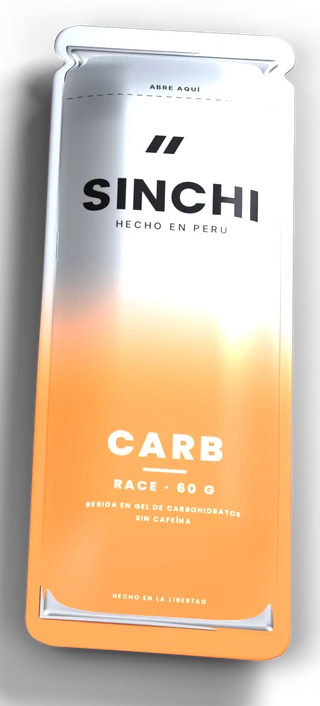
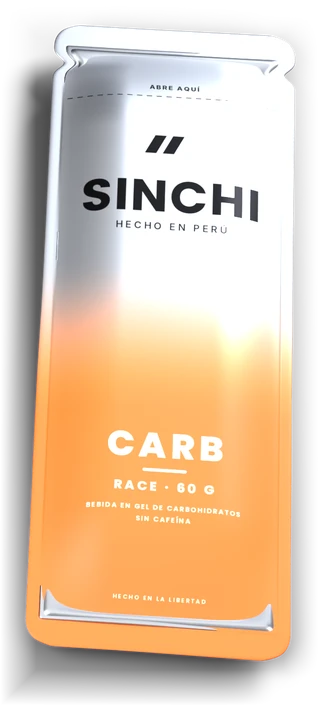
Renders Blender con bordes de sombra suavizados
Claude-Session: https://claude.ai/code/session_016W1ixGYnw2FrW8Et2c2FKq

Changed region(s): [[0.0, 0.0935, 0.8125, 1.0], [0.9062, 0.3428, 1.0, 0.9348]]

diff --git a/index.html b/index.html
@@ -23,16 +23,16 @@
 <meta property="og:url" content="https://sinchienergy.com/">
 <meta property="og:title" content="SINCHI CARB · Bebida en gel de carbohidratos hecha en Perú">
 <meta property="og:description" content="Bebida en gel de carbohidratos, sin cafeína, para correr, pedalear y entrenar. RACE, sachet de 60 g. Separa el tuyo.">
-<meta property="og:image" content="https://sinchienergy.com/assets/og.jpg?v=4">
+<meta property="og:image" content="https://sinchienergy.com/assets/og.jpg?v=5">
 <meta property="og:image:width" content="1200">
 <meta property="og:image:height" content="630">
 <meta property="og:image:alt" content="SINCHI CARB RACE, sachet de 60 g">
 <meta name="twitter:card" content="summary_large_image">
 <meta name="twitter:title" content="SINCHI CARB · Bebida en gel de carbohidratos hecha en Perú">
 <meta name="twitter:description" content="Bebida en gel de carbohidratos, sin cafeína. RACE, sachet de 60 g. Separa el tuyo.">
-<meta name="twitter:image" content="https://sinchienergy.com/assets/og.jpg?v=4">
+<meta name="twitter:image" content="https://sinchienergy.com/assets/og.jpg?v=5">
 <script type="application/ld+json">{"@context":"https://schema.org","@type":"Organization","name":"SINCHI CARB","alternateName":"SINCHI","url":"https://sinchienergy.com/","logo":"https://sinchienergy.com/icons/icon-512.png","slogan":"Más fuerte que tus problemas.","sameAs":["https://www.instagram.com/sinchienergy/","https://www.tiktok.com/@sinchienergy"]}</script>
-<link rel="preload" as="image" href="assets/race-600.webp?v=2" fetchpriority="high">
+<link rel="preload" as="image" href="assets/race-600.webp?v=3" fetchpriority="high">
 <link rel="stylesheet" href="styles.css?v=20">
 <!-- Google Analytics -->
 <script>addEventListener('load',function(){setTimeout(function(){var s=document.createElement('script');s.async=true;s.src='https://www.googletagmanager.com/gtag/js?id=G-M9N4279ZE2';document.head.appendChild(s);},1500);});</script>
@@ -72,7 +72,7 @@
   <div class="hero-visual hero-in hero-in2">
     <div class="glow"></div>
     <div class="tilt" id="tilt">
-      <div class="stage"><div class="pedestal"></div><div class="duo"><img class="floaty heroimg heroimg-race" src="assets/race-600.webp?v=2" width="600" height="1324" fetchpriority="high" decoding="async" alt="SINCHI CARB RACE, sachet de 60 g"></div></div>
+      <div class="stage"><div class="pedestal"></div><div class="duo"><img class="floaty heroimg heroimg-race" src="assets/race-600.webp?v=3" width="600" height="1324" fetchpriority="high" decoding="async" alt="SINCHI CARB RACE, sachet de 60 g"></div></div>
     </div>
   </div>
 </section>
@@ -101,14 +101,14 @@
     <p class="muted">Empezamos con un solo formato, pensado para tu carrera. Lo que viene después, lo sabrás primero aquí.</p>
   </div>
   <div class="formats reveal">
-    <article class="fmtcard hero-fmt"><img src="assets/race-320.webp?v=2" width="320" height="706" loading="lazy" decoding="async" alt="SINCHI CARB RACE, sachet de 60 g">
+    <article class="fmtcard hero-fmt"><img src="assets/race-320.webp?v=3" width="320" height="706" loading="lazy" decoding="async" alt="SINCHI CARB RACE, sachet de 60 g">
       <div class="fhead"><span class="kicker">RACE · DÍA DE CARRERA</span><span class="big">60 g</span></div>
       <h3>Sachet abre fácil</h3>
       <p class="muted">Plateado a naranja eléctrico, delgado y ligero. Cabe en el bolsillo del short o del cinturón y se abre con una mano por la muesca superior.</p>
       <a class="btn btn-light fmt-cta" href="#separar">Separar el mío</a>
     </article>
     <article class="fmtcard teaser" aria-label="Próximo lanzamiento: ULTRA">
-      <img src="assets/ultra-360.webp?v=2" width="360" height="583" loading="lazy" decoding="async" alt="">
+      <img src="assets/ultra-360.webp?v=3" width="360" height="583" loading="lazy" decoding="async" alt="">
       <div class="fhead"><span class="kicker">PRÓXIMAMENTE</span><span class="big">ULTRA</span></div>
       <h3>Algo más grande viene en camino.</h3>
       <p class="muted">Para tus fondos, trail y salidas largas. Déjanos tu correo y sé el primero en saberlo.</p>

diff --git a/cuenta.html b/cuenta.html
@@ -458,7 +458,7 @@ body.is-mi .shell{overflow-x:clip}
       <h1>Únete al<br><span class="grad">equipo.</span></h1>
       <p class="lead">Crea tu cuenta para separar tu SINCHI CARB, seguir tus pedidos y contarle al mundo cómo te fue en tu carrera.</p>
     </div>
-    <div class="visual"><img src="/assets/race-600.webp?v=2" alt="SINCHI CARB RACE, sachet de 60 g"></div>
+    <div class="visual"><img src="/assets/race-600.webp?v=3" alt="SINCHI CARB RACE, sachet de 60 g"></div>
     <div class="perks">
       <div><b>Acceso anticipado</b><span>Entérate primero del lanzamiento.</span></div>
       <div><b>Tus pedidos</b><span>Todo en un solo lugar.</span></div>
@@ -629,7 +629,7 @@ body.is-mi .shell{overflow-x:clip}
               <button type="button" class="ghost" id="inviteCopy">Copiar enlace</button>
             </div>
           </div>
-          <img class="invite-img invite-race" src="/assets/race-600.webp?v=2" width="600" height="1324" alt="" loading="lazy" decoding="async">
+          <img class="invite-img invite-race" src="/assets/race-600.webp?v=3" width="600" height="1324" alt="" loading="lazy" decoding="async">
         </section>
       </section>
 
@@ -735,7 +735,7 @@ const fechaLarga = new Intl.DateTimeFormat('es-PE', { month: 'long', year: 'nume
 const fechaCorta = new Intl.DateTimeFormat('es-PE', { day: 'numeric', month: 'short', year: 'numeric' });
 const fechaMes = new Intl.DateTimeFormat('es-PE', { month: 'short', year: 'numeric' });
 const el = (tag, cls, txt) => { const e = document.createElement(tag); if (cls) e.className = cls; if (txt != null) e.textContent = txt; return e; };
-const imgDe = (p) => (/sachet/i.test(p) ? '/assets/race-320.webp?v=2' : '/assets/ultra-360.webp?v=2');
+const imgDe = (p) => (/sachet/i.test(p) ? '/assets/race-320.webp?v=3' : '/assets/ultra-360.webp?v=3');
 const nombreCompleto = (u) => [u.nombre, u.apellido].filter(Boolean).join(' ');
 
 function codigoBarras(n) {

diff --git a/sw.js b/sw.js
@@ -1,5 +1,5 @@
-const CACHE = 'sinchi-v25';
-const CORE = ['/', '/index.html', '/styles.css?v=20', '/main.js?v=17', '/cuenta.html', '/assets/race-600.webp?v=2', '/fonts/archivo.woff2?v=1', '/fonts/inter.woff2?v=1', '/assets/ultra-360.webp?v=2', '/assets/race-320.webp?v=2', '/assets/favicon.png', '/icons/icon-192.png'];
+const CACHE = 'sinchi-v26';
+const CORE = ['/', '/index.html', '/styles.css?v=20', '/main.js?v=17', '/cuenta.html', '/assets/race-600.webp?v=3', '/fonts/archivo.woff2?v=1', '/fonts/inter.woff2?v=1', '/assets/ultra-360.webp?v=3', '/assets/race-320.webp?v=3', '/assets/favicon.png', '/icons/icon-192.png'];
 self.addEventListener('install', e => { e.waitUntil(caches.open(CACHE).then(c => c.addAll(CORE)).then(() => self.skipWaiting())); });
 self.addEventListener('activate', e => { e.waitUntil(caches.keys().then(ks => Promise.all(ks.filter(k => k !== CACHE).map(k => caches.delete(k)))).then(() => self.clients.claim())); });
 self.addEventListener('fetch', e => {
